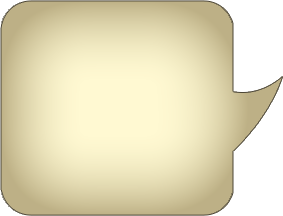
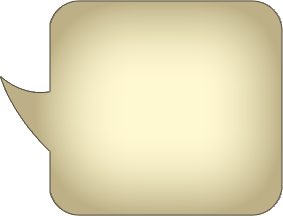
FTUE下方对话框样式

diff --git a/ClientProject/Assets/CSharpScripts/UIScripts/UIFTUE.cs b/ClientProject/Assets/CSharpScripts/UIScripts/UIFTUE.cs
@@ -169,11 +169,15 @@ public class UIFTUE : UIWindow
         {
             m_dialogBoardSprite.spriteName = "TextBox";
             m_dialogTrans.LocalPositionY(334);
+            m_dialogText.transform.LocalPositionX(-204.0f);
+            m_clickLabel.transform.LocalPositionY(-80.0f);
         }
         else
         {
             m_dialogBoardSprite.spriteName = "TextBox3";
             m_dialogTrans.LocalPositionY(-311);
+            m_dialogText.transform.LocalPositionX(-172.1245f);
+            m_clickLabel.transform.LocalPositionY(-131.1079f);
         }
 		
 		m_dialogContents = content.Split('@');
@@ -276,10 +280,10 @@ public class UIFTUE : UIWindow
             {
 				HideHighLight();
 				++m_FTUEIndex;
-				HideWindow(delegate()
-				{
-					ShowFTUE(m_curStep);                         //若有步数，循环调用
-				});
+                m_dialogEffectPlayer.HideEffect(delegate()      //关闭当前窗口
+                {
+                    ShowFTUE(m_curStep);                         //若有步数，循环调用
+                });
             }
             else                                            //若没有
             {
